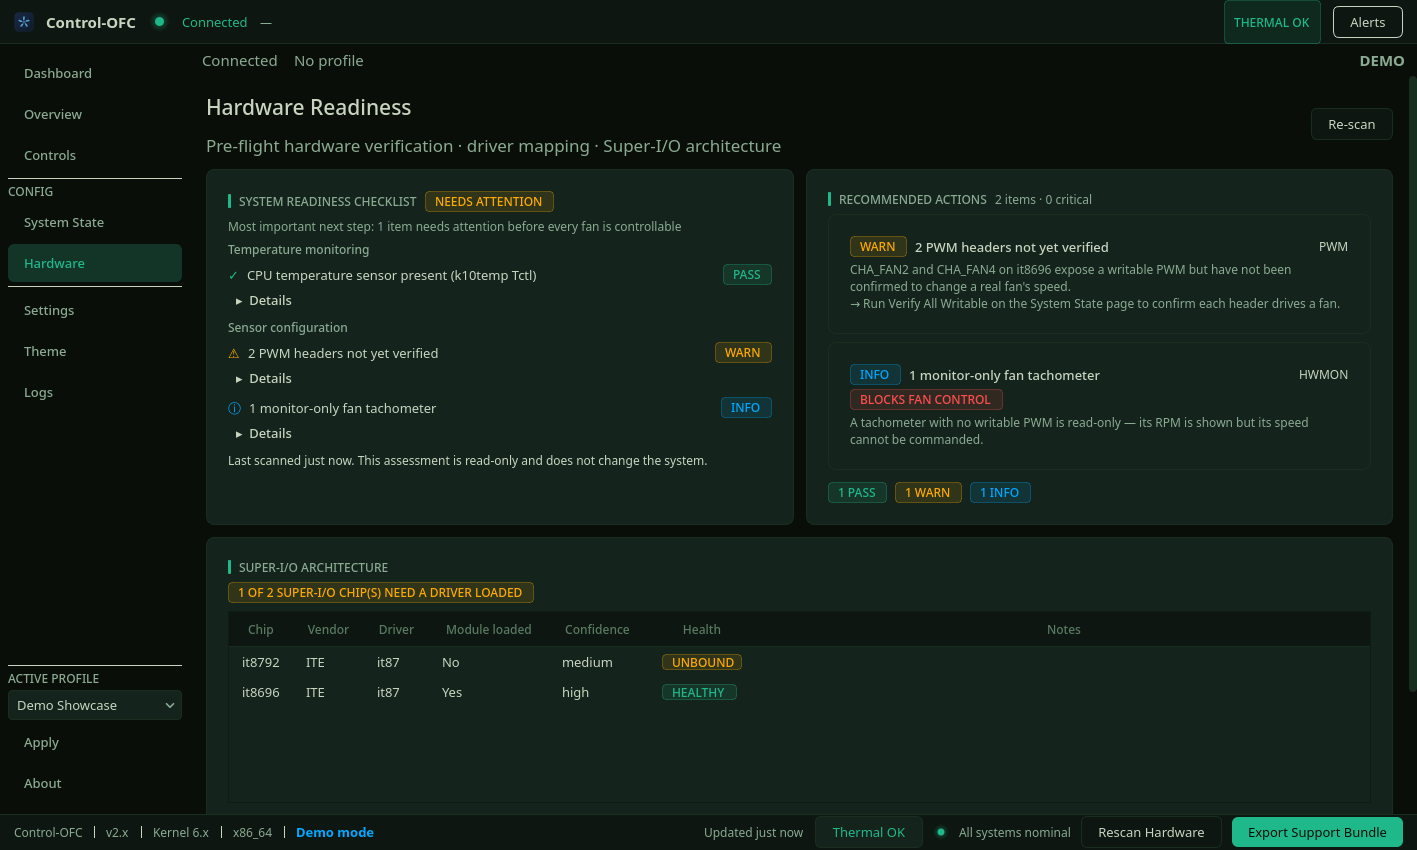
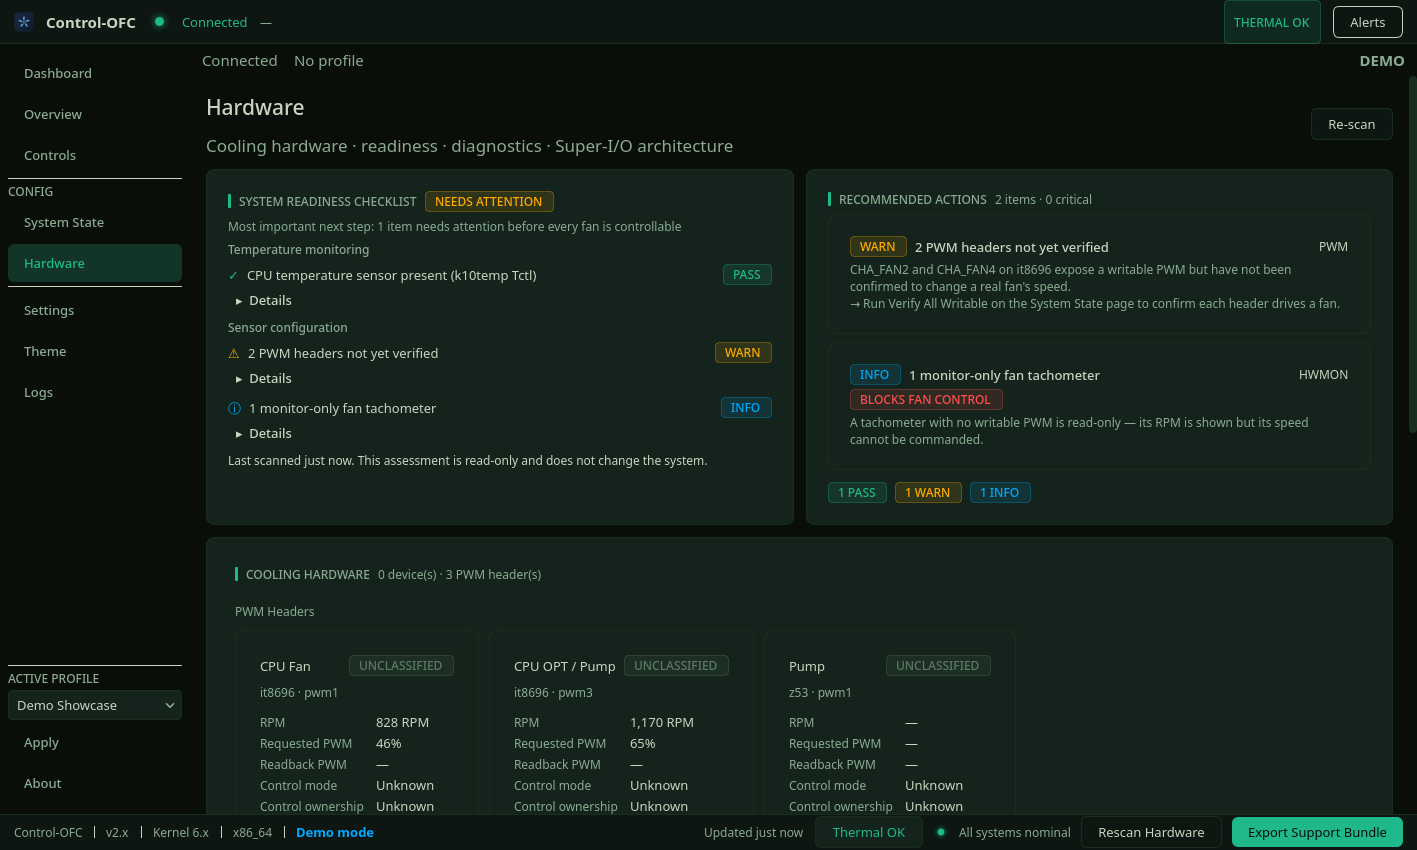
release: v2.56.0 — the Hardware page surfaces the cooling stack
README release line + pairing (the daemon floor stays v2.11.0: every Phase 6
surface is capability-gated and degrades), and the recaptured Hardware
screenshot. Retracts the v2.55.0 line's "there is deliberately no user
interface for it yet" in place, since this release is that interface.

01_dashboard.png was recaptured and reverted: its diff bound-boxes to 25x213px
(0.116%) inside the chart's right-edge band, which is the documented
two-variant residual, and the Dashboard UI did not change in this release.

Claude-Session: https://claude.ai/code/session_01S2pz4gsUzJvD88bu1caz4F

diff --git a/README.md b/README.md
@@ -1,6 +1,6 @@
 # Control-OFC GUI
 
-**Latest release:** v2.55.0 — 2026-09-03. Pairs with `control-ofc-daemon` ≥ v2.11.0 (v2.16.0 or newer for the Settings ▸ Daemon Configuration card, v2.17.0 for the Dashboard's fan-control-engine health banner, v2.18.0 for Rescan Hardware to also look for an OpenFan controller, v2.21.0 for the Controls page's "Not controlled" badge, v2.22.0 for the live output figure on each Controls card and the Dashboard's unresolved-control warning, v2.23.0 for removing a profile search directory, v2.24.0 for the thermal-forcing verify refusal shown as a soft notice, v2.24.2 for the subsystem age shown as data freshness rather than poll time, v2.25.0 for the daemon to also distrust the widened `nct67xx` `CPUTIN` set the GUI warns about and to quarantine an implausibly-low CPU reading, v2.26.0 for the thermal ladder's forced duties to act as floors over profile output rather than replacements for it and for the emergency trip point to be derived per machine from the CPU's own reported ceiling, v2.27.0 for fan telemetry to be reported only where it was actually measured, v2.28.0 for per-channel PWM header roles and pump-safe fan identify; all stand down gracefully on older daemons). The v2.26.0 and v2.27.0 behaviours need no GUI support — nothing on the wire changed. The trip point is reported in a field the GUI already renders verbatim, and `rpm` was already optional with a fan's absence already meaning "not currently readable". v2.50.0 consumes the v2.28.0 `control.header_roles` capability: where the daemon classifies a header as a pump, the Fan Wizard says the pump's speed will change rather than that it will stop — and against any older daemon it keeps the "stop" wording, because that is what an older daemon actually does. v2.51.0 goes further and *writes* that capability: Configure AIO asks which header the pump is connected to and records it via `POST /config/header-role`, which is the only way a motherboard-connected AIO can be set up at all — its pump hangs off the Super-I/O chip like any other fan, so nothing can infer it. The same release offers three pump strategies (Automatic, Fixed speed, Custom curve) in place of fixed presets only, and retracts the claim that a pump must run at a constant speed. Against a pre-2.28.0 daemon the role step is hidden and the flow behaves exactly as v2.50.0 did. v2.52.0 adds **Characterise PWM Response** on the System State page — a deeper diagnostic beside the existing quick "Test PWM Control", which holds a header at a series of duties and reports **command acceptance, PWM readback and physical fan response as three separate verdicts**. That separation is the feature: a pump whose firmware drives itself during startup reports a perfectly correct PWM readback while its speed ignores the command, and a single pass/fail would call that a broken fan. It needs daemon v2.29.0 or newer and is hidden entirely without it, so against an older daemon this release behaves exactly as v2.51.0 did. v2.53.0 rebuilds the **Logs** page as a List + Inspector workflow: an activity strip showing event volume over time (click a column to filter to that slice), a dense two-line event list, newest first, with repeated events collapsed into one row, and a tabbed inspector holding the event's detail, its raw stored record, and the Daemon Status / Controller / GPU probes and system journal that used to sit in a strip along the bottom. Events now carry structured fields where the emitter genuinely had them — an alert's component, an exception's type, a rescan's header count — so related events can be correlated on something real rather than a source tag. **This release needs nothing new from the daemon**: no API, schema or contract change, and your saved log filters carry over. v2.53.1 fixes three defects found by an audit of that work: Characterise PWM Response could render a *different* header's sweep as this header's result, because the daemon serves one run at a time and the dialog never checked whose it was; the app's minimum window size was set to a width no page has ever fitted in, which is what squeezed the Logs toolbar's search box down to "Sea…" (**the minimum window width therefore grows to roughly 1400px**); and a restore the daemon deliberately skipped was reported as "Restoring the original speed failed — re-activate your profile", which is precisely the wrong advice when thermal safety is what skipped it. The last of those reads the daemon's new `restore_outcome` field and so words each reason properly against v2.30.0 or newer, keeping the previous message against anything older. v2.54.0 records a motherboard-connected cooler as one **cooling device** — pump header, radiator fans and temperature source saved as a named assembly rather than three coincidentally related channels — and stops the GUI re-deriving the pump's safety floor for itself: against a daemon ≥ v2.31.0 each header now reports the duty floor the daemon will actually enforce and whether it may be stopped at all, and the client-side reconstruction becomes a fallback for older daemons. **No floor changes** — the daemon ships generic device policies only, whose pump floor is the 30 % constant it already enforced. Naming a header as a cooler's pump confers no protection on its own; that is still the pump **role**, which Configure AIO assigns in the same flow. Against a pre-v2.31.0 daemon the whole surface is simply absent and nothing else changes. v2.55.0 adds the groundwork for **validation sessions** — a recording of what a cooler actually did, with the evidence to back it up: telemetry sampled once a second, a timeline of the things the daemon can genuinely observe (a profile activating, the BIOS taking a header back, a suspend, a thermal failsafe), and a typed summary that distinguishes *passed*, *observed*, *not tested* and *unavailable* rather than collapsing them into a verdict. It can also run the existing PWM verify and characterisation for you and attach their results as evidence. **There is deliberately no user interface for it yet** — this release ships the model, the API client and the JSON/CSV serializers, and the Hardware-page workflow that uses them comes next. Nothing on any page changes, so upgrading is safe and invisible; it needs daemon v2.32.0 or newer and is simply absent against anything older. See [`CHANGELOG.md`](CHANGELOG.md) for the full history.
+**Latest release:** v2.56.0 — 2026-09-03. Pairs with `control-ofc-daemon` ≥ v2.11.0 (v2.16.0 or newer for the Settings ▸ Daemon Configuration card, v2.17.0 for the Dashboard's fan-control-engine health banner, v2.18.0 for Rescan Hardware to also look for an OpenFan controller, v2.21.0 for the Controls page's "Not controlled" badge, v2.22.0 for the live output figure on each Controls card and the Dashboard's unresolved-control warning, v2.23.0 for removing a profile search directory, v2.24.0 for the thermal-forcing verify refusal shown as a soft notice, v2.24.2 for the subsystem age shown as data freshness rather than poll time, v2.25.0 for the daemon to also distrust the widened `nct67xx` `CPUTIN` set the GUI warns about and to quarantine an implausibly-low CPU reading, v2.26.0 for the thermal ladder's forced duties to act as floors over profile output rather than replacements for it and for the emergency trip point to be derived per machine from the CPU's own reported ceiling, v2.27.0 for fan telemetry to be reported only where it was actually measured, v2.28.0 for per-channel PWM header roles and pump-safe fan identify; all stand down gracefully on older daemons). The v2.26.0 and v2.27.0 behaviours need no GUI support — nothing on the wire changed. The trip point is reported in a field the GUI already renders verbatim, and `rpm` was already optional with a fan's absence already meaning "not currently readable". v2.50.0 consumes the v2.28.0 `control.header_roles` capability: where the daemon classifies a header as a pump, the Fan Wizard says the pump's speed will change rather than that it will stop — and against any older daemon it keeps the "stop" wording, because that is what an older daemon actually does. v2.51.0 goes further and *writes* that capability: Configure AIO asks which header the pump is connected to and records it via `POST /config/header-role`, which is the only way a motherboard-connected AIO can be set up at all — its pump hangs off the Super-I/O chip like any other fan, so nothing can infer it. The same release offers three pump strategies (Automatic, Fixed speed, Custom curve) in place of fixed presets only, and retracts the claim that a pump must run at a constant speed. Against a pre-2.28.0 daemon the role step is hidden and the flow behaves exactly as v2.50.0 did. v2.52.0 adds **Characterise PWM Response** on the System State page — a deeper diagnostic beside the existing quick "Test PWM Control", which holds a header at a series of duties and reports **command acceptance, PWM readback and physical fan response as three separate verdicts**. That separation is the feature: a pump whose firmware drives itself during startup reports a perfectly correct PWM readback while its speed ignores the command, and a single pass/fail would call that a broken fan. It needs daemon v2.29.0 or newer and is hidden entirely without it, so against an older daemon this release behaves exactly as v2.51.0 did. v2.53.0 rebuilds the **Logs** page as a List + Inspector workflow: an activity strip showing event volume over time (click a column to filter to that slice), a dense two-line event list, newest first, with repeated events collapsed into one row, and a tabbed inspector holding the event's detail, its raw stored record, and the Daemon Status / Controller / GPU probes and system journal that used to sit in a strip along the bottom. Events now carry structured fields where the emitter genuinely had them — an alert's component, an exception's type, a rescan's header count — so related events can be correlated on something real rather than a source tag. **This release needs nothing new from the daemon**: no API, schema or contract change, and your saved log filters carry over. v2.53.1 fixes three defects found by an audit of that work: Characterise PWM Response could render a *different* header's sweep as this header's result, because the daemon serves one run at a time and the dialog never checked whose it was; the app's minimum window size was set to a width no page has ever fitted in, which is what squeezed the Logs toolbar's search box down to "Sea…" (**the minimum window width therefore grows to roughly 1400px**); and a restore the daemon deliberately skipped was reported as "Restoring the original speed failed — re-activate your profile", which is precisely the wrong advice when thermal safety is what skipped it. The last of those reads the daemon's new `restore_outcome` field and so words each reason properly against v2.30.0 or newer, keeping the previous message against anything older. v2.54.0 records a motherboard-connected cooler as one **cooling device** — pump header, radiator fans and temperature source saved as a named assembly rather than three coincidentally related channels — and stops the GUI re-deriving the pump's safety floor for itself: against a daemon ≥ v2.31.0 each header now reports the duty floor the daemon will actually enforce and whether it may be stopped at all, and the client-side reconstruction becomes a fallback for older daemons. **No floor changes** — the daemon ships generic device policies only, whose pump floor is the 30 % constant it already enforced. Naming a header as a cooler's pump confers no protection on its own; that is still the pump **role**, which Configure AIO assigns in the same flow. Against a pre-v2.31.0 daemon the whole surface is simply absent and nothing else changes. v2.55.0 adds the groundwork for **validation sessions** — a recording of what a cooler actually did, with the evidence to back it up: telemetry sampled once a second, a timeline of the things the daemon can genuinely observe (a profile activating, the BIOS taking a header back, a suspend, a thermal failsafe), and a typed summary that distinguishes *passed*, *observed*, *not tested* and *unavailable* rather than collapsing them into a verdict. It can also run the existing PWM verify and characterisation for you and attach their results as evidence. It shipped **without a user interface, deliberately** — the model, the API client and the JSON/CSV serializers only; nothing on any page changed, so upgrading was safe and invisible. v2.56.0 is the interface. The **Hardware** page becomes the place you see, understand and test your cooling hardware: a configured cooler now appears as one assembly — pump, radiator fans, control sensor, strategy, status — instead of a set of unrelated hwmon channel names, and every PWM header gets a card with its live values and an expandable engineering view (capabilities, kernel label, role, the duty floor the daemon enforces, whether stopping is prohibited). The PWM control test and the response characterisation move here from System State, which keeps them as an advanced shortcut — both pages run the same implementation. Characterisation now also reports **response and settling time** per step. Validation and startup/lifecycle recording get the dialog they were built for, with a findings summary that keeps *passed*, *observed*, *not tested* and *unavailable* distinct, and CSV/JSON export. **The most useful single change is that requested PWM and hardware readback are now shown as two numbers rather than one** — that is what lets you tell a failed write from a BIOS/EC reclaim from a device doing its own internal control, and it needs daemon v2.33.0 for the commanded value; against anything older the requested figure is labelled approximate rather than presented as fact. Nothing on this page writes PWM: every test runs inside the daemon, which keeps its lease, the pump floor and thermal protection in force throughout. See [`CHANGELOG.md`](CHANGELOG.md) for the full history.
 
 Desktop fan control interface for Linux. Communicates with the [`control-ofc-daemon`](https://github.com/Plan-B-Development/control-ofc-daemon) service to monitor temperatures, manage fan speeds, and apply custom fan curves.
 
